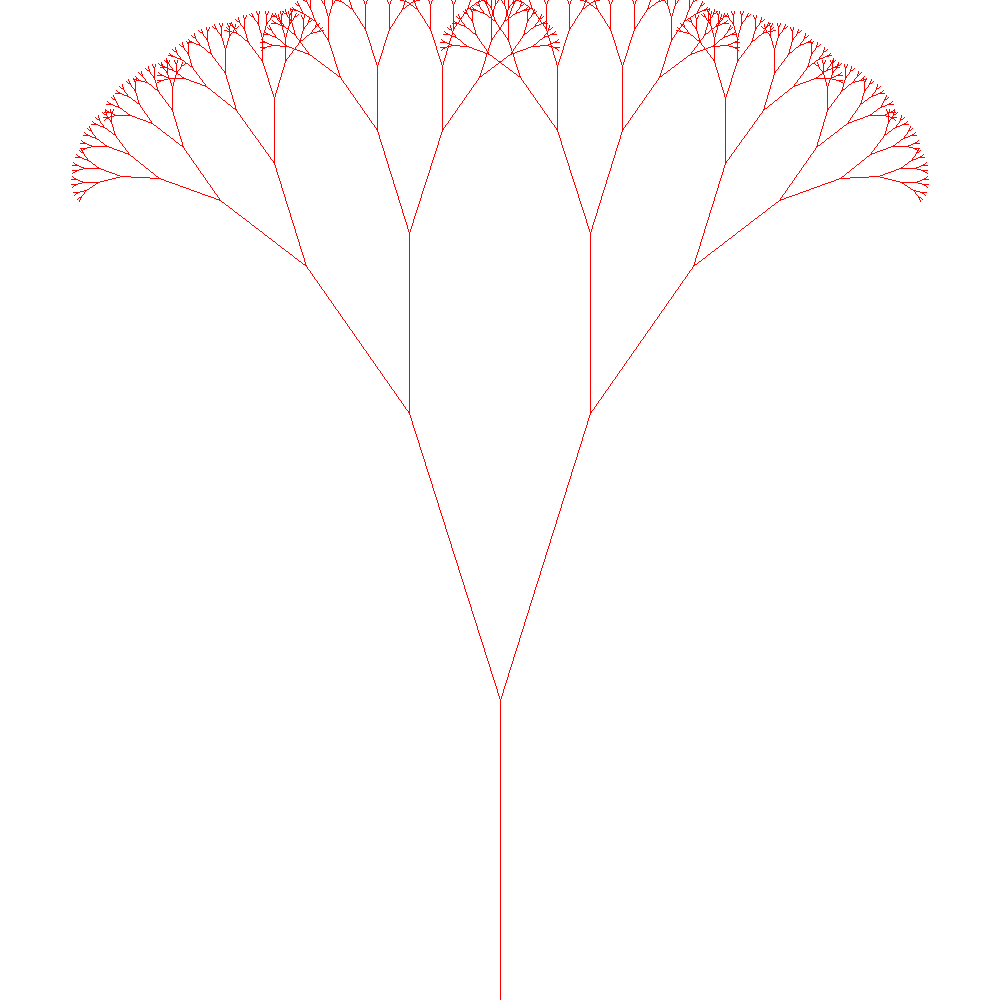
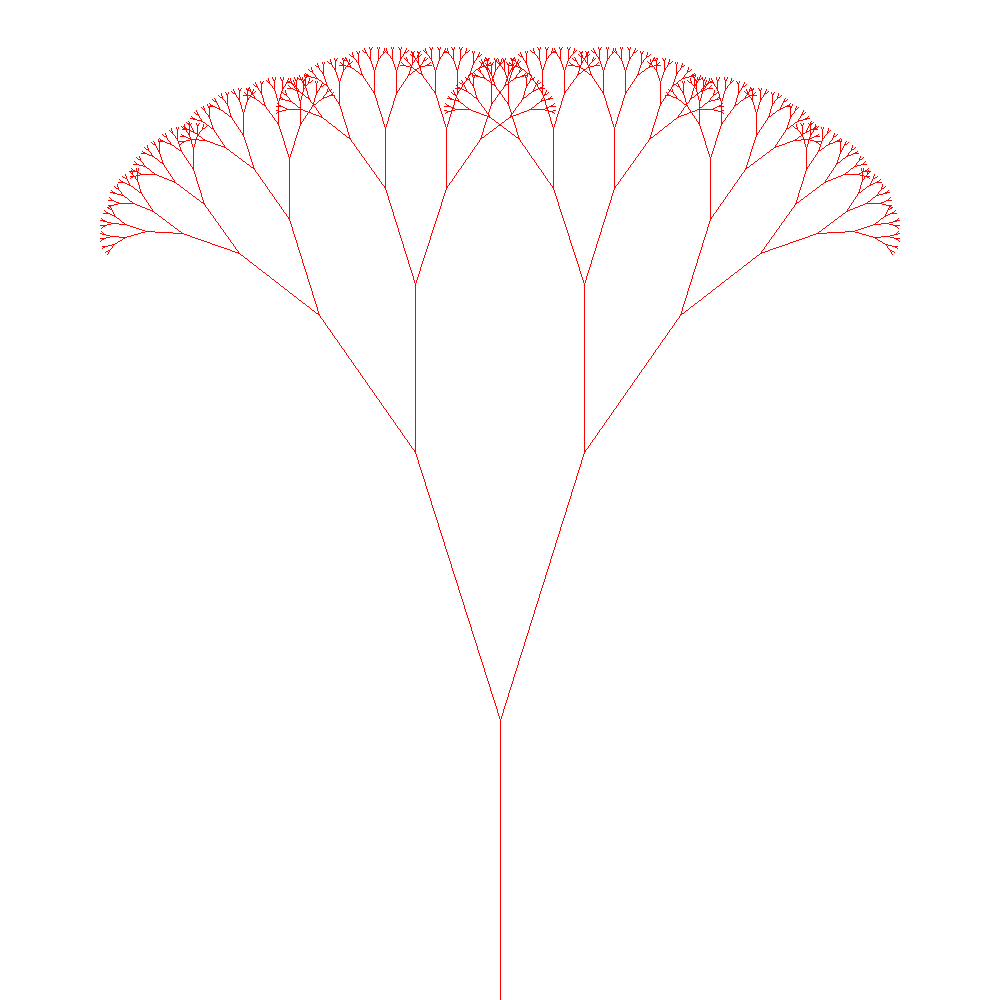
增加根长度

diff --git a/curriculum-design/basic/branchs_tree.go b/curriculum-design/basic/branchs_tree.go
@@ -46,10 +46,10 @@ func DrawBranchsTree() {
 	//     img.Set(dx-1, i, color.Black)
 	//
 	// }
-	drawline(500, 1000, 500, 700, func(x, y int) {
+	drawline(500, 1000, 500, 720, func(x, y int) {
 		img.Set(int(x), int(y), color.RGBA{255, 0, 0, 255})
 	})
-	ddraw(500, 700, 180, 300, img)
+	ddraw(500, 720, 180, 280, img)
 
 	imgcounter := 250
 	imgfile, _ := os.Create(fmt.Sprintf("%03d.png", imgcounter))
